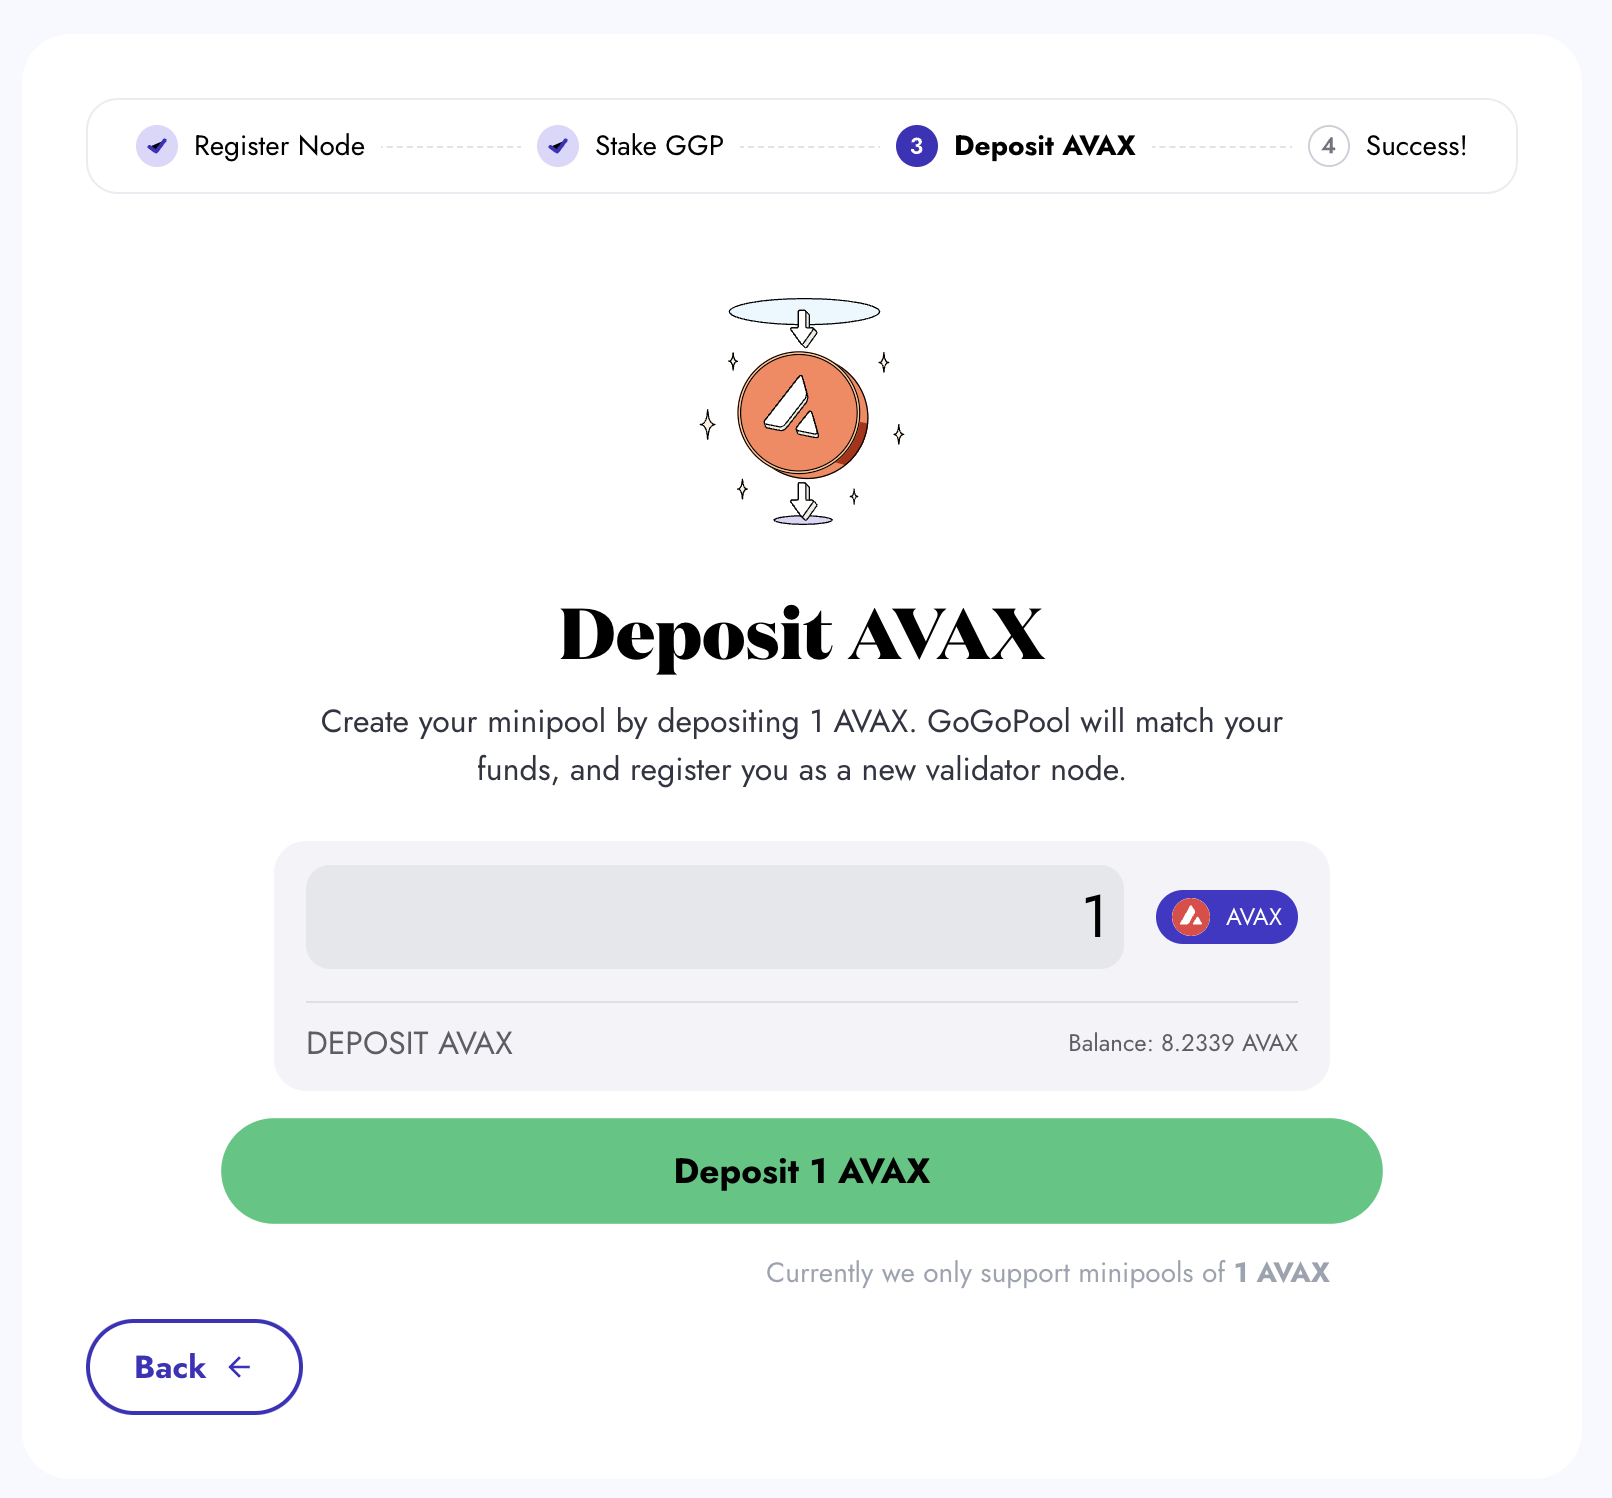
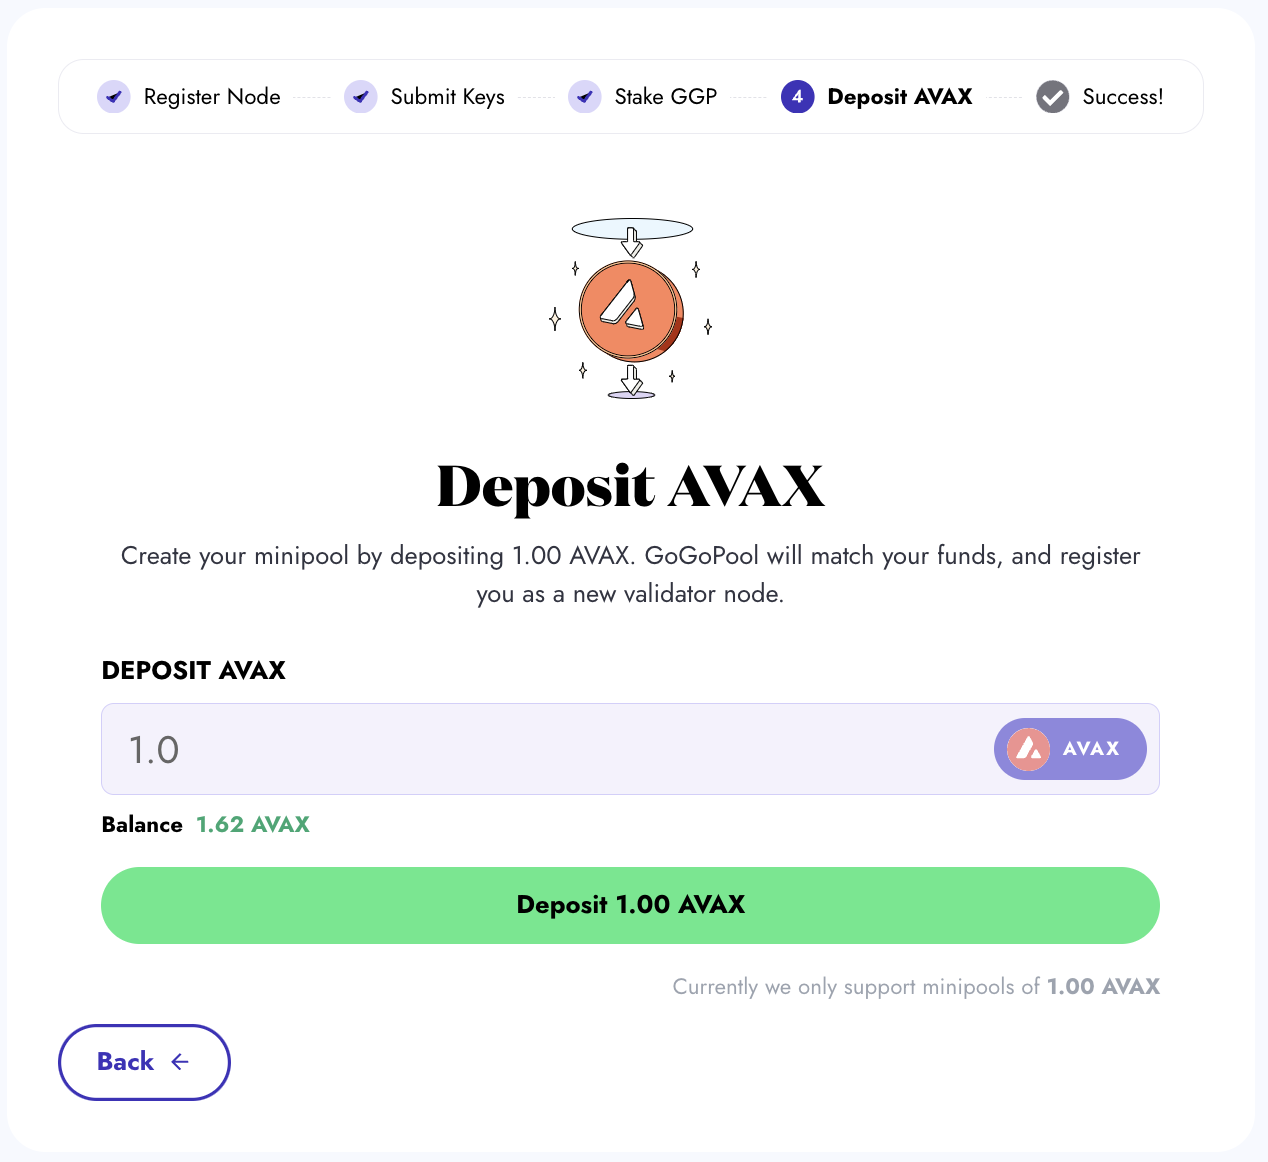
fix: Update manual node operator instructions
Updates the steps and images for the manual node operator setup to be consistent with the current state of the app.

diff --git a/readme-1/as-a-node-operator/as-a-node-operator.md b/readme-1/as-a-node-operator/as-a-node-operator.md
@@ -16,26 +16,32 @@ To use GoGoPool as a node operator, and earn rewards on your staked GGP, you hav
 
 <figure><img src="../../.gitbook/assets/gogopool_register_node.png" alt=""><figcaption><p>Place your NodeId in the input box as shown, then press next.</p></figcaption></figure>
 
-### Step 2: Approve and Deposit GGP
+### Step 2: Submit BLS Public Key
+
+Enter your BLS public key and signature for verification. Further information about BLS keys, why they are needed, and how to access yours is [here](https://docs.gogopool.com/security/avalanche-bls-keys#how-do-i-acquire-my-nodes-bls-keys).
+
+<figure><img src="../../.gitbook/assets/gogopool_blsKeys.png" alt=""></figure>
+
+### Step 3: Approve and Deposit GGP
 
 Your wallet provider will prompt you to approve and transfer GGP
 
-<figure><img src="../../.gitbook/assets/gogopool_stake_ggp.png" alt=""><figcaption><p>This wallet already has 1 GGP staked, by staking another 0.5 GGP, the collateralization ratio will be 150%. The user is prompted to approve the transfer of GGP.</p></figcaption></figure>
+<figure><img src="../../.gitbook/assets/gogopool_stake_ggp.png" alt=""><figcaption><p>This wallet already has 1.5 GGP staked with a collateralization ratio of 30%, by staking another 4.5 GGP, the future collateralization ratio will be 100%. The user is prompted to approve the transfer of GGP.</p></figcaption></figure>
 
 <figure><img src="../../.gitbook/assets/gogopool_deposit_ggp_success.png" alt=""><figcaption><p>Once the GGP transfer is approved by the user, the user can deposit GGP.</p></figcaption></figure>
 
-### Step 3: Stake AVAX
+### Step 4: Stake AVAX
 
 Your wallet provider will prompt you to transfer AVAX
 
 <figure><img src="../../.gitbook/assets/gogopool_deposit_avax.png" alt=""><figcaption><p>Deposit AVAX</p></figcaption></figure>
 
-### Step 4: Minipool created!
+### Step 5: Minipool created!
 
 Once you deposit AVAX, your Minipool is created! You can use the hash to see the transaction on your block explorer of choice.
 
 <figure><img src="../../.gitbook/assets/gogopool_minipool_successfully_created.png" alt=""><figcaption><p>Minipool successfully created! Use the hash to view the transaction on a block explorer. Proceed to the dashboard to view your Minipool.</p></figcaption></figure>
 
-### Step 5: View the new Minipool on your dashboard
+### Step 6: View the new Minipool on your dashboard
 
 <figure><img src="../../.gitbook/assets/gogopool_minipool_dashboard.png" alt=""><figcaption><p>The dashboard is useful for keeping up to date with your Minipools</p></figcaption></figure>
